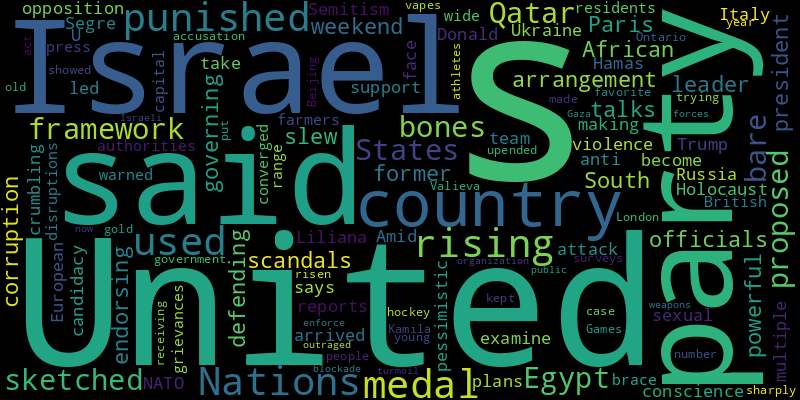
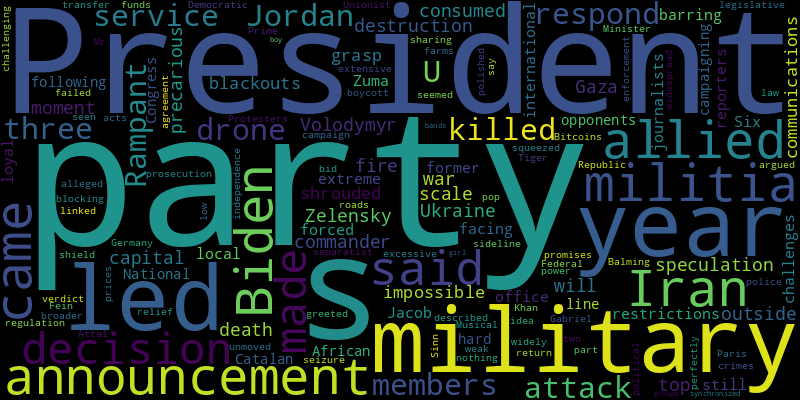
chore(bot): 🤖 auto commit

diff --git a/README.md b/README.md
@@ -2,41 +2,41 @@
 Auto RSS New York Times and Generate Word Cloud
 
 ## New York Times Global News
-* The United States, Israel, Egypt and Qatar sketched out a bare-bones framework for the proposed arrangement during weekend talks in Paris, the officials said.
-* After defending the former South African president and party leader during a slew of corruption scandals, the country’s powerful governing party punished him for endorsing the opposition.
-* Liliana Segre, who has become Italy’s conscience on the Holocaust, says she is pessimistic in the face of rising anti-Semitism.
-* A team from the United Nations has arrived in Israel to examine multiple reports of sexual violence during the Hamas-led attack.
-* Amid crumbling U.S. support for Ukraine and Donald Trump’s rising candidacy, European nations and NATO are making plans to take on Russia by themselves.
-* The authorities warned residents to brace for disruptions as farmers converged on the capital to press a wide range of grievances.
-* The British government said it would act after surveys showed that the number of young people trying vapes had risen sharply.
-* Kamila Valieva, once a 15-year-old gold medal favorite, was punished in a case that upended the Beijing Games, and kept other athletes from receiving medals.
-* The accusation, made in London, Ontario, in 2018, has put the country’s hockey organization into turmoil and outraged the public.
-* The very weapons that Israeli forces have used to enforce a blockade of Gaza are now being used against them.
+* The announcement, from a militia allied with Iran, came as President Biden said his decision had been made on how to respond to a drone attack in Jordan that killed three U.S. service members.
+* Rampant speculation that President Volodymyr Zelensky will fire his top military commander has consumed Ukraine’s capital at a precarious moment in the war.
+* From outside Gaza, the scale of death and destruction is impossible to grasp, shrouded by communications blackouts, restrictions barring international reporters and extreme challenges facing local journalists.
+* Six years after he was forced from office, former President Jacob Zuma, who still has a loyal following, is campaigning for opponents of the party he once led, the African National Congress.
+* A hard-line Catalan separatist party argued that the legislative shield against prosecution for alleged crimes linked to a failed bid for independence is weak and has to be broader.
+* Protesters blocking roads in and out of Paris, who say farms are squeezed by low prices and excessive regulation, seemed unmoved by promises from Prime Minister Gabriel Attal.
+* The verdict is widely seen as part of a military-led campaign to sideline Mr. Khan’s political party.
+* An agreement by the Democratic Unionist Party to return to power-sharing with Sinn Fein after a two year boycott was greeted by widespread relief.
+* The police described the transfer of funds as the “most extensive seizure of Bitcoins by law enforcement in the Federal Republic of Germany.”
+* Musical acts like Balming Tiger are challenging the idea that K-pop is nothing but polished, perfectly synchronized boy bands and girl groups.
 
 ![Global](./global.png)
 ## New York Times United States News
-* Six victims were found in a remote area of San Bernardino County about 90 miles northeast of Los Angeles. The authorities believe the shooting deaths stemmed from a dispute over illegal marijuana.
-* Professors at the University of Pennsylvania have begun to organize, fearing what they view as a plan by the billionaire Marc Rowan to upend academic freedom.
-* The judge said that a court clerk had made “foolish and fleeting” comments during Mr. Murdaugh’s trial, but that they did not affect the jury’s verdict that he murdered his wife and son.
+* The prosecutor, Nathan Wade, might have been forced to address allegations of a romantic relationship with his boss, Fani T. Willis, at a divorce hearing this week.
 * Donald Trump’s lawyers want Ms. Willis disqualified from the Georgia election case over accusations that she had a romantic relationship with a subordinate. A judge will decide what happens next.
-* Republicans are expected to push through articles of impeachment charging the homeland security secretary with refusing to uphold the law and breaching the public’s trust.
-* The flood of TV and digital spots in battleground states is set to be the largest single purchase of political advertising by a super PAC in U.S. history, according to the group, Future Forward.
-* Dale Holloway, 41, was sentenced Monday on several charges, including attempted murder, for opening fire at a New Hampshire church in 2019 in what the authorities called a revenge shooting.
-* Jatonia Bryant, 23, had been held at a jail in Pine Bluff, Ark., on a capital murder charge before he and another inmate fled last week, the authorities said. The other escapee was caught Thursday.
-* The company, which operated the train that derailed in East Palestine, Ohio, is the first major freight railroad to join a federal program that allows workers to report safety issues.
-* Plus: A Taylor Swift endorsement is Biden’s wildest dream.
+* A steady erosion of history has been underway on the island for years, with ultrawealthy newcomers remaking the interiors of antique structures.
+* Oregon’s governor, Tina Kotek, hopes to counter homelessness, crime and widespread public use of fentanyl that she says threatens the state’s largest city.
+* Ms. Haley has recently shifted her strategy, casting Donald Trump, 77, and President Biden, 81, as part of the same bygone era of politician.
+* Ms. Carnahan was appointed to the seat after her husband was posthumously elected to it just weeks after he was killed in a plane crash in 2000.
+* Just $300,000 is on hold after Israeli claims that UNRWA employees joined the Oct. 7 Hamas attacks, U.S. officials say.
+* The cuts would decimate a high-profile liberal group that was once a fund-raising powerhouse for Democrats.
+* Aimenn D. Penny, 20, was angry because the Community Church of Chesterland had planned to host two drag shows, federal prosecutors said.
+* The life-size bronze tribute to the legendary baseball player who broke the color barrier was stolen from a different park last week. What was left of it “is beyond repair,” officials said.
 
 ![US](./usnews.png)
 ## New York Times Asia News
+* Critics call the verdict against the popular Move Forward Party, which hoped to scale back a royal defamation law, another blatant attempt to block the people’s will.
+* The sentences, just over a week before Pakistan’s national election, come as the former prime minister’s party has been battered by a crackdown.
+* As Beijing struggles with a slumping stock market and a collapsing real estate sector, commentary and even financial analysis it deems negative are blocked.
+* Also, a possible Israel-Hamas deal and a security proposal in Hong Kong.
+* A robotics company captured a sonar image that its chief executive believes shows Earhart’s long-lost plane at the bottom of the Pacific Ocean. Archaeologists say it’s too early to know.
+* U Tun Min Latt was placed under sanctions last year by the United States for supplying drones and aircraft parts to the military regime in Myanmar.
+* Warning of threats posed by spies, the city’s leader expressed confidence that the new law would enjoy public support. “They will love it,” he said.
+* The first two episodes of the show, which was filmed during the city’s pandemic restrictions, were released last week but were not available there.
 * The verdict is widely seen as part of a military-led campaign to sideline Mr. Khan’s political party.
 * Musical acts like Balming Tiger are challenging the idea that K-pop is nothing but polished, perfectly synchronized boy bands and girl groups.
-* The forced liquidation of China Evergrande epitomizes the sector’s struggles: Nationwide, sales are down and millions of homes have been paid for but not delivered.
-* Plus, Evergrande’s liquidation and Biden’s election strategy.
-* A team from the United Nations has arrived in Israel to examine multiple reports of sexual violence during the Hamas-led attack.
-* Kamila Valieva, once a 15-year-old gold medal favorite, was punished in a case that upended the Beijing Games, and kept other athletes from receiving medals.
-* The giant real estate developer epitomized China’s real estate frenzy, and its downfall fueled the market’s downturn.
-* Bartenders around the city are mixing up creative cocktails with unexpected, and often ecologically conscious, ingredients. Here are six spots to visit.
-* After multiple delays and even a few faint glimmers of hope, a Hong Kong court has sounded the death knell for what was once China’s biggest real estate firm.
-* Also, the UNRWA is in trouble and an antiwar candidate rises in Russia.
 
 ![Asian](./asian.png)
